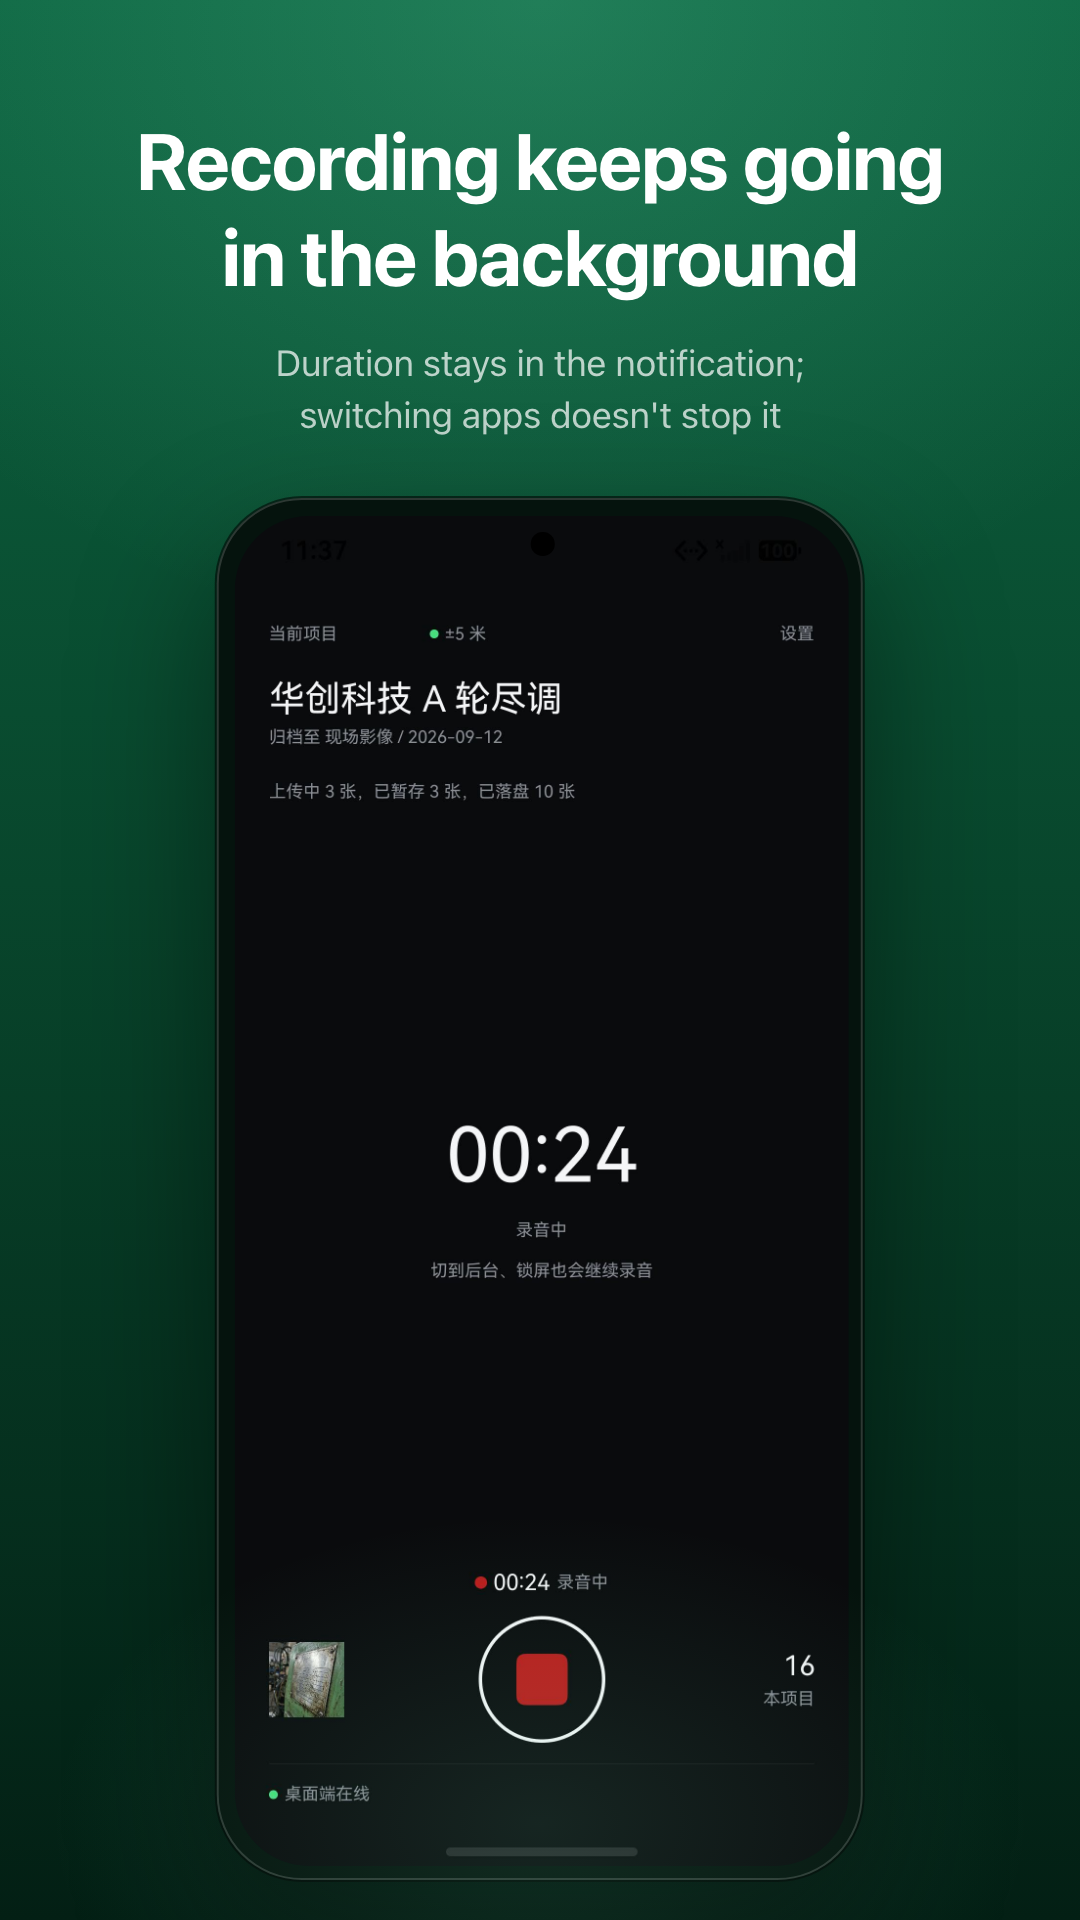
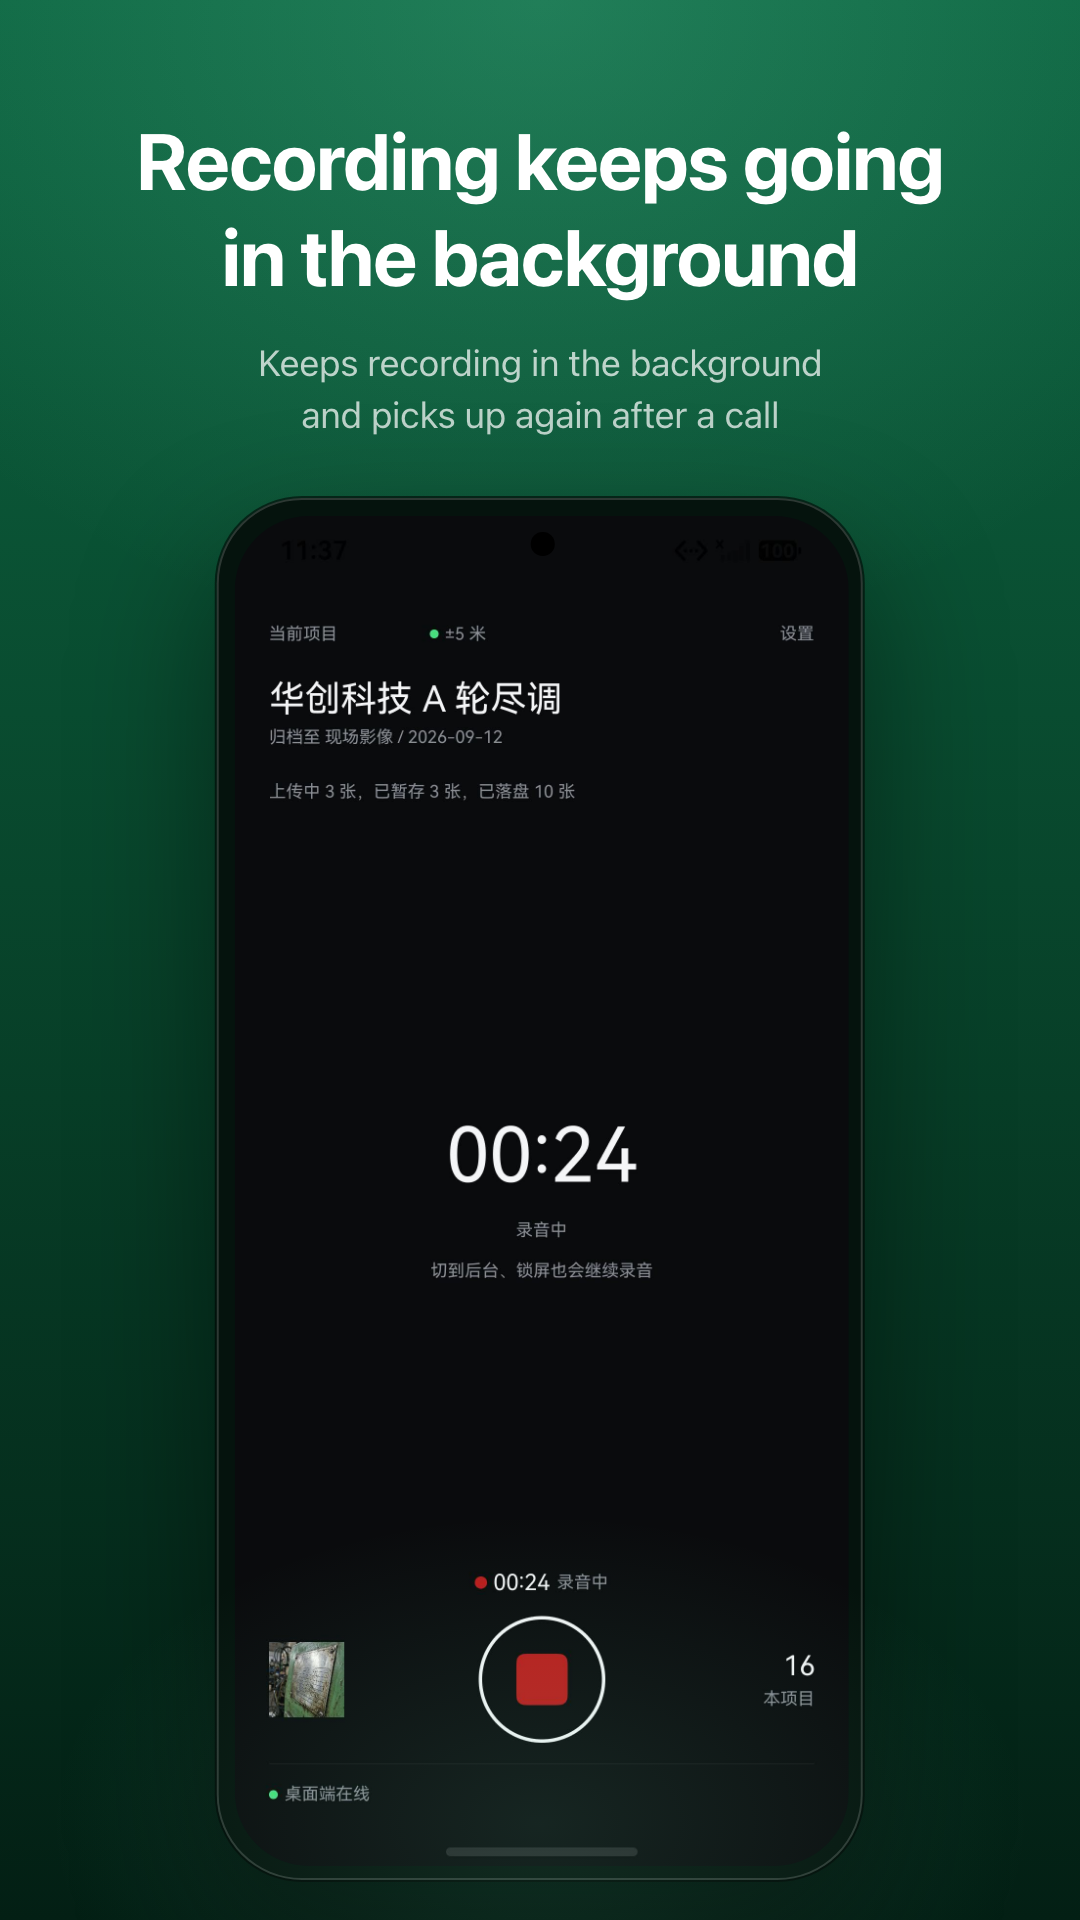
fix(store): 鸿蒙第 6 张截图副题按事实改——系统长时任务通知不带时长（dev-board#620） (#41)

Changed region(s): [[0.2444, 0.1875, 0.7639, 0.25]]

diff --git a/docs/specs/2026-09-13-store-assets-design.md b/docs/specs/2026-09-13-store-assets-design.md
@@ -27,7 +27,7 @@ dev-board 主卡 #617（iOS #618 / 安卓 #619 / 鸿蒙 #620）。2026-09-13。
 | 7 | 设置页（云端中转用量 + 本地原图说明） | 云端只做中转 | 桌面端确认落盘后立即删除中转副本，本地原图不会被自动删除 | The cloud is only a relay | Deleted the moment your desktop confirms; local originals are never auto-deleted |
 | 8 | 项目选择器（多个在办项目） | 一部手机，服务所有在办项目 | 切换项目，影像各归各的目录 | One phone, every matter you are on | Switch projects; each capture files itself into the right folder |
 
-安卓 / 鸿蒙第 6 张副题改为「常驻通知里看得见时长，切应用不中断」/ "Duration stays in the notification; switching apps doesn't stop it"。
+安卓第 6 张副题改为「常驻通知里看得见时长，切应用不中断」/ "Duration stays in the notification; switching apps doesn't stop it"；鸿蒙的系统长时任务通知不带时长，改为「切到后台、锁屏也继续录，来电中断后自动续录」/ "Keeps recording in the background and picks up again after a call"。
 
 ## 3. 视觉系统
 
